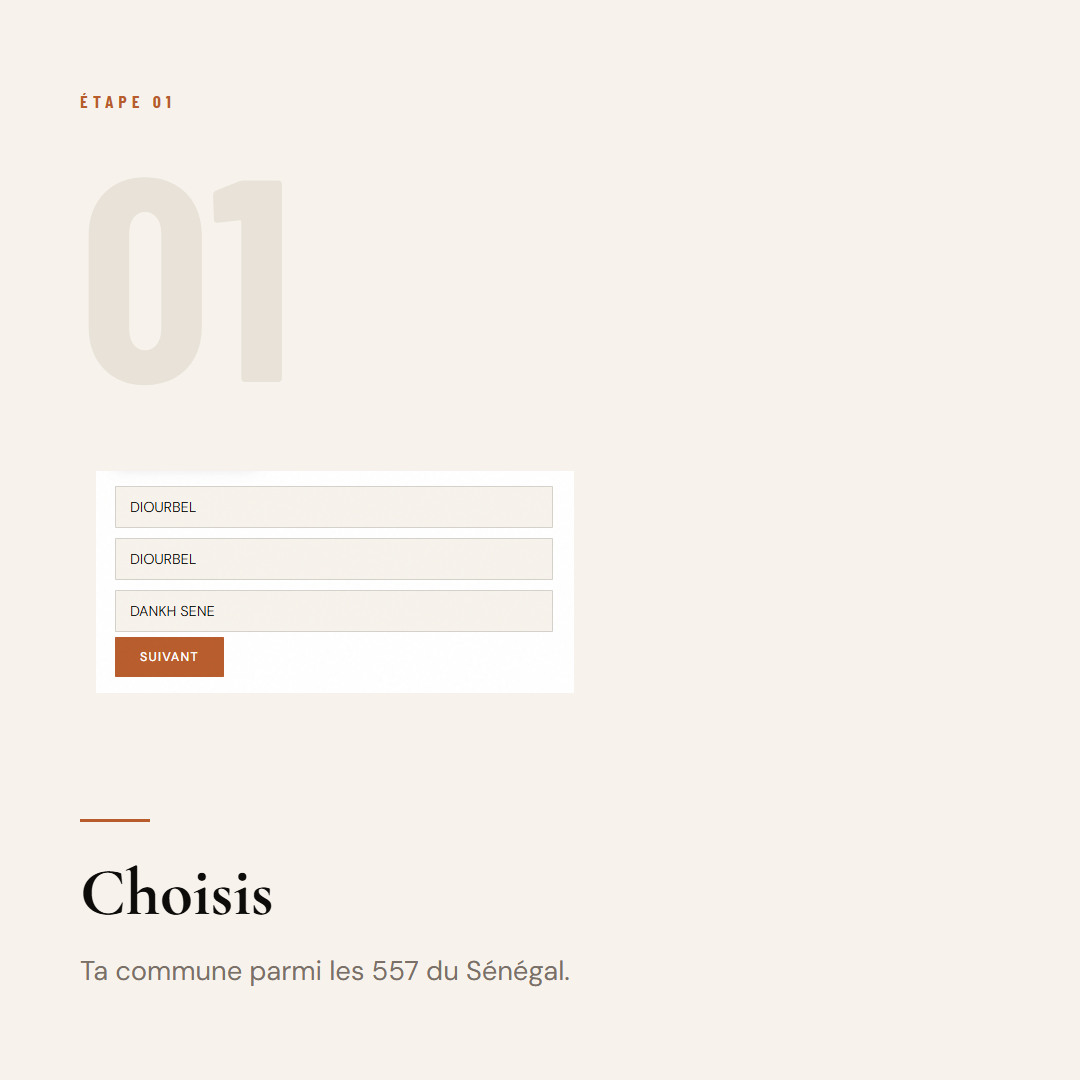
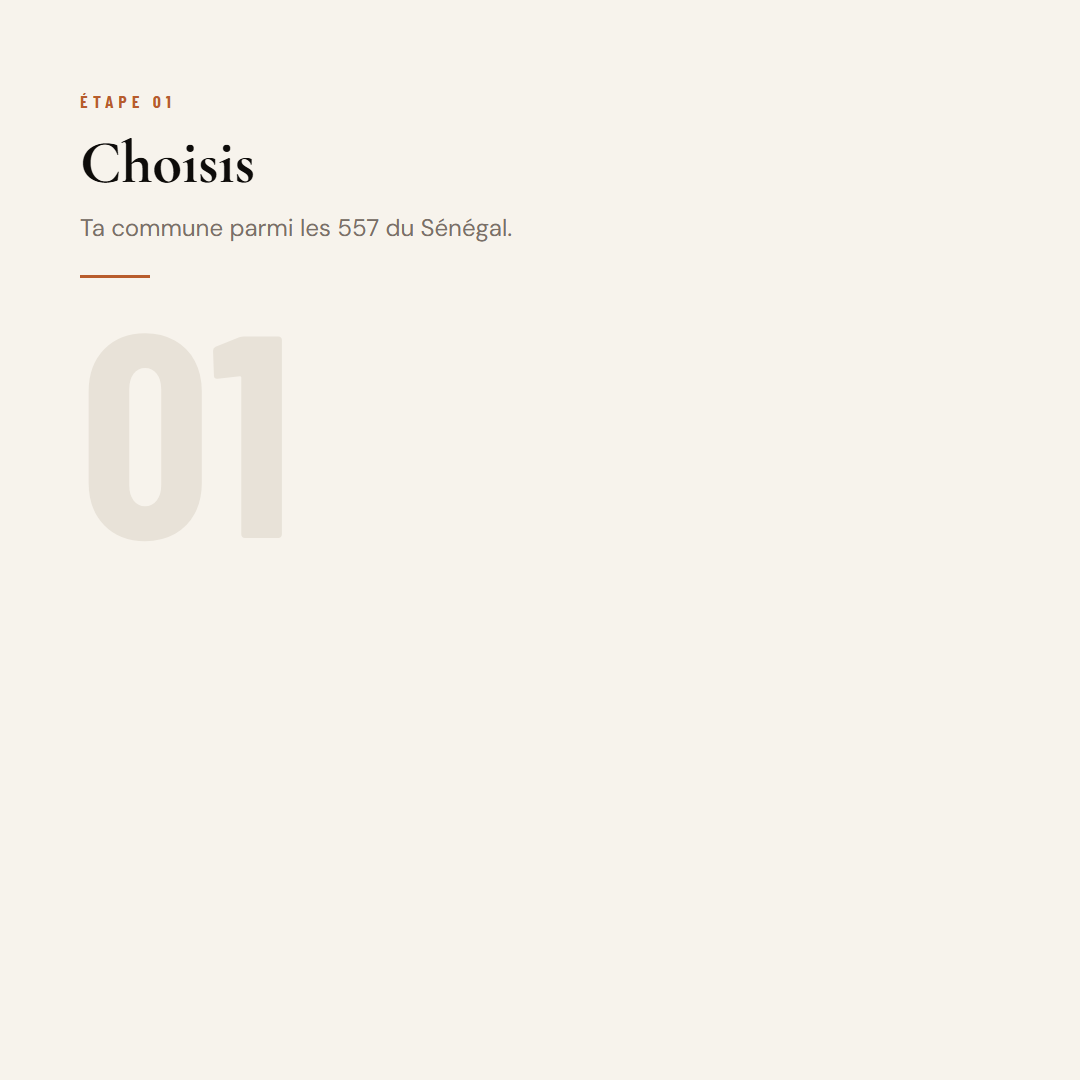
MAJ landing page

diff --git a/assets/carrousels/out/slide-05.html b/assets/carrousels/out/slide-05.html
@@ -13,12 +13,19 @@
   .eyebrow { font-family:"Barlow Condensed",sans-serif; font-size:1.1rem; font-weight:700;
              letter-spacing:5px; text-transform:uppercase; color:#b85c2c; }
   .divider { width:70px; height:3px; background:#b85c2c; margin:30px 0; }
+  .shot { width:100%; border:1px solid #d8d0c4; background:#fff;
+          box-shadow:0 18px 40px rgba(14,12,10,.10); display:block; }
+  .shot-wrap { width:100%; display:flex; align-items:center; justify-content:center; }
 </style></head><body><div class="frame">
-      <div class="eyebrow">Étape 04</div>
-      <div style="font-family:'Barlow Condensed',sans-serif;font-size:18rem;font-weight:700;color:#e8e2d8;line-height:.8;margin-top:40px;">04</div>
-      <div style="margin-top:auto;">
-        <div class="divider"></div>
-        <h2 style="font-family:'Cormorant Garamond',serif;font-size:4.2rem;font-weight:700;">Télécharge</h2>
-        <p style="font-size:1.7rem;color:#7a7068;margin-top:18px;line-height:1.45;max-width:760px;">Un fichier haute résolution, tout de suite.</p>
+      <div style="display:flex;align-items:baseline;gap:20px;">
+        <div class="eyebrow">Étape 04</div>
       </div>
+      <div style="margin-top:14px;">
+        <h2 style="font-family:'Cormorant Garamond',serif;font-size:3.8rem;font-weight:700;">Télécharge</h2>
+        <p style="font-size:1.5rem;color:#7a7068;margin-top:12px;line-height:1.4;max-width:820px;">Un fichier haute résolution, tout de suite.</p>
+        <div class="divider"></div>
+      </div>
+      <div class="shot-wrap" style="flex:1;min-height:0;margin-bottom:36px;">
+           <img class="shot" src="file:///C:/Users/LBC/Documents/MES DOCS/SUCCESS/ENTREPRENDRE/SAAS/MaCommune_V2_N/assets/carrousels/img/map-dankh-sene.png" style="max-height:540px;max-width:100%;width:auto;object-fit:contain;">
+         </div>
     </div></body></html>

diff --git a/assets/carrousels/out/slide-04.html b/assets/carrousels/out/slide-04.html
@@ -13,12 +13,17 @@
   .eyebrow { font-family:"Barlow Condensed",sans-serif; font-size:1.1rem; font-weight:700;
              letter-spacing:5px; text-transform:uppercase; color:#b85c2c; }
   .divider { width:70px; height:3px; background:#b85c2c; margin:30px 0; }
+  .shot { width:100%; border:1px solid #d8d0c4; background:#fff;
+          box-shadow:0 18px 40px rgba(14,12,10,.10); display:block; }
+  .shot-wrap { width:100%; display:flex; align-items:center; justify-content:center; }
 </style></head><body><div class="frame">
-      <div class="eyebrow">Étape 03</div>
-      <div style="font-family:'Barlow Condensed',sans-serif;font-size:18rem;font-weight:700;color:#e8e2d8;line-height:.8;margin-top:40px;">03</div>
-      <div style="margin-top:auto;">
-        <div class="divider"></div>
-        <h2 style="font-family:'Cormorant Garamond',serif;font-size:4.2rem;font-weight:700;">Paie</h2>
-        <p style="font-size:1.7rem;color:#7a7068;margin-top:18px;line-height:1.45;max-width:760px;">Par Wave, Orange ou autre mobile money. En quelques secondes.</p>
+      <div style="display:flex;align-items:baseline;gap:20px;">
+        <div class="eyebrow">Étape 03</div>
       </div>
+      <div style="margin-top:14px;">
+        <h2 style="font-family:'Cormorant Garamond',serif;font-size:3.8rem;font-weight:700;">Paie</h2>
+        <p style="font-size:1.5rem;color:#7a7068;margin-top:12px;line-height:1.4;max-width:820px;">Par Wave, Orange ou autre mobile money. En quelques secondes.</p>
+        <div class="divider"></div>
+      </div>
+      <div style="font-family:'Barlow Condensed',sans-serif;font-size:18rem;font-weight:700;color:#e8e2d8;line-height:.8;flex:1;">03</div>
     </div></body></html>

diff --git a/assets/carrousels/out/slide-03.html b/assets/carrousels/out/slide-03.html
@@ -13,12 +13,17 @@
   .eyebrow { font-family:"Barlow Condensed",sans-serif; font-size:1.1rem; font-weight:700;
              letter-spacing:5px; text-transform:uppercase; color:#b85c2c; }
   .divider { width:70px; height:3px; background:#b85c2c; margin:30px 0; }
+  .shot { width:100%; border:1px solid #d8d0c4; background:#fff;
+          box-shadow:0 18px 40px rgba(14,12,10,.10); display:block; }
+  .shot-wrap { width:100%; display:flex; align-items:center; justify-content:center; }
 </style></head><body><div class="frame">
-      <div class="eyebrow">Étape 02</div>
-      <div style="font-family:'Barlow Condensed',sans-serif;font-size:18rem;font-weight:700;color:#e8e2d8;line-height:.8;margin-top:40px;">02</div>
-      <div style="margin-top:auto;">
-        <div class="divider"></div>
-        <h2 style="font-family:'Cormorant Garamond',serif;font-size:4.2rem;font-weight:700;">Personnalise</h2>
-        <p style="font-size:1.7rem;color:#7a7068;margin-top:18px;line-height:1.45;max-width:760px;">La couleur, ton nom, le style de la carte.</p>
+      <div style="display:flex;align-items:baseline;gap:20px;">
+        <div class="eyebrow">Étape 02</div>
       </div>
+      <div style="margin-top:14px;">
+        <h2 style="font-family:'Cormorant Garamond',serif;font-size:3.8rem;font-weight:700;">Personnalise</h2>
+        <p style="font-size:1.5rem;color:#7a7068;margin-top:12px;line-height:1.4;max-width:820px;">La couleur, ton nom, le style de la carte.</p>
+        <div class="divider"></div>
+      </div>
+      <div style="font-family:'Barlow Condensed',sans-serif;font-size:18rem;font-weight:700;color:#e8e2d8;line-height:.8;flex:1;">02</div>
     </div></body></html>

diff --git a/assets/carrousels/out/slide-01.html b/assets/carrousels/out/slide-01.html
@@ -13,14 +13,19 @@
   .eyebrow { font-family:"Barlow Condensed",sans-serif; font-size:1.1rem; font-weight:700;
              letter-spacing:5px; text-transform:uppercase; color:#b85c2c; }
   .divider { width:70px; height:3px; background:#b85c2c; margin:30px 0; }
+  .shot { width:100%; border:1px solid #d8d0c4; background:#fff;
+          box-shadow:0 18px 40px rgba(14,12,10,.10); display:block; }
+  .shot-wrap { width:100%; display:flex; align-items:center; justify-content:center; }
 </style></head><body><div class="frame">
-      <div class="deco"></div><div class="deco2"></div>
       <div class="eyebrow">Sutura Maps</div>
       <div class="divider"></div>
-      <h1 style="font-family:'Cormorant Garamond',serif;font-size:5rem;font-weight:700;line-height:1.04;margin-top:auto;">
+      <h1 style="font-family:'Cormorant Garamond',serif;font-size:4.4rem;font-weight:700;line-height:1.04;">
         Ta carte de<br><em style="font-style:italic;font-weight:300;color:#b85c2c;">localisation</em><br>en 5 minutes
       </h1>
-      <p style="font-family:'Cormorant Garamond',serif;font-size:1.9rem;color:#7a7068;margin-top:28px;line-height:1.4;">
+      <p style="font-family:'Cormorant Garamond',serif;font-size:1.7rem;color:#7a7068;margin-top:20px;line-height:1.4;">
         Ta commune, personnalisée, prête à imprimer ou à rendre.
       </p>
+      <div class="shot-wrap" style="margin-top:40px;flex:1;min-height:0;">
+           <img class="shot" src="file:///C:/Users/LBC/Documents/MES DOCS/SUCCESS/ENTREPRENDRE/SAAS/MaCommune_V2_N/assets/carrousels/img/map-dankh-sene.png" style="max-height:430px;width:auto;object-fit:contain;">
+         </div>
     </div></body></html>

diff --git a/assets/carrousels/out/slide-02.html b/assets/carrousels/out/slide-02.html
@@ -13,12 +13,17 @@
   .eyebrow { font-family:"Barlow Condensed",sans-serif; font-size:1.1rem; font-weight:700;
              letter-spacing:5px; text-transform:uppercase; color:#b85c2c; }
   .divider { width:70px; height:3px; background:#b85c2c; margin:30px 0; }
+  .shot { width:100%; border:1px solid #d8d0c4; background:#fff;
+          box-shadow:0 18px 40px rgba(14,12,10,.10); display:block; }
+  .shot-wrap { width:100%; display:flex; align-items:center; justify-content:center; }
 </style></head><body><div class="frame">
-      <div class="eyebrow">Étape 01</div>
-      <div style="font-family:'Barlow Condensed',sans-serif;font-size:18rem;font-weight:700;color:#e8e2d8;line-height:.8;margin-top:40px;">01</div>
-      <div style="margin-top:auto;">
-        <div class="divider"></div>
-        <h2 style="font-family:'Cormorant Garamond',serif;font-size:4.2rem;font-weight:700;">Choisis</h2>
-        <p style="font-size:1.7rem;color:#7a7068;margin-top:18px;line-height:1.45;max-width:760px;">Ta commune parmi les 557 du Sénégal.</p>
+      <div style="display:flex;align-items:baseline;gap:20px;">
+        <div class="eyebrow">Étape 01</div>
       </div>
+      <div style="margin-top:14px;">
+        <h2 style="font-family:'Cormorant Garamond',serif;font-size:3.8rem;font-weight:700;">Choisis</h2>
+        <p style="font-size:1.5rem;color:#7a7068;margin-top:12px;line-height:1.4;max-width:820px;">Ta commune parmi les 557 du Sénégal.</p>
+        <div class="divider"></div>
+      </div>
+      <div style="font-family:'Barlow Condensed',sans-serif;font-size:18rem;font-weight:700;color:#e8e2d8;line-height:.8;flex:1;">01</div>
     </div></body></html>

diff --git a/assets/carrousels/out/slide-06.html b/assets/carrousels/out/slide-06.html
@@ -13,6 +13,9 @@
   .eyebrow { font-family:"Barlow Condensed",sans-serif; font-size:1.1rem; font-weight:700;
              letter-spacing:5px; text-transform:uppercase; color:#b85c2c; }
   .divider { width:70px; height:3px; background:#b85c2c; margin:30px 0; }
+  .shot { width:100%; border:1px solid #d8d0c4; background:#fff;
+          box-shadow:0 18px 40px rgba(14,12,10,.10); display:block; }
+  .shot-wrap { width:100%; display:flex; align-items:center; justify-content:center; }
 </style></head><body><div class="frame" style="justify-content:center;align-items:flex-start;">
       <div class="deco"></div><div class="deco2"></div>
       <div class="eyebrow">Disponible maintenant</div>
@@ -20,5 +23,5 @@
       <div style="font-family:'Cormorant Garamond',serif;font-size:8rem;font-weight:700;line-height:1;">2 000</div>
       <div style="font-family:'DM Sans';font-size:1.3rem;letter-spacing:2px;text-transform:uppercase;color:#7a7068;margin-top:8px;">FCFA par carte</div>
       <p style="font-family:'Cormorant Garamond',serif;font-style:italic;font-size:2rem;color:#7a7068;margin-top:40px;">Moins de 5 minutes, chrono.</p>
-      <div style="margin-top:60px;font-family:'Barlow Condensed',sans-serif;font-size:2.1rem;font-weight:700;letter-spacing:3px;text-transform:uppercase;border-bottom:3px solid #b85c2c;padding-bottom:6px;">sutura-maps.netlify.app</div>
+      <div style="margin-top:60px;font-family:'Barlow Condensed',sans-serif;font-size:2.1rem;font-weight:700;letter-spacing:3px;text-transform:uppercase;border-bottom:3px solid #b85c2c;padding-bottom:6px;">sutura-maps.com</div>
     </div></body></html>

diff --git a/index.html b/index.html
@@ -1865,9 +1865,8 @@
       </p>
       <div class="cta-btns reveal d2">
         <a href="map.html" class="btn btn--primary">Créer ma première carte</a>
-        <!-- REMPLACE 221XXXXXXXXX par ton numéro WhatsApp (format international, sans +) -->
         <a
-          href="https://wa.me/221XXXXXXXXX"
+          href="https://wa.me/qr/ZMRTI74EM64WO1"
           target="_blank"
           rel="noopener"
           class="btn btn--ghost-white"

diff --git a/assets/carrousels/build-carrousel.js b/assets/carrousels/build-carrousel.js
@@ -56,7 +56,7 @@ const slides = [
     type: "cta",
     price: "2 000",
     currency: "FCFA par carte",
-    url: "sutura-maps.netlify.app",
+    url: "sutura-maps.com",
     note: "Moins de 5 minutes, chrono.",
   },
 ];
